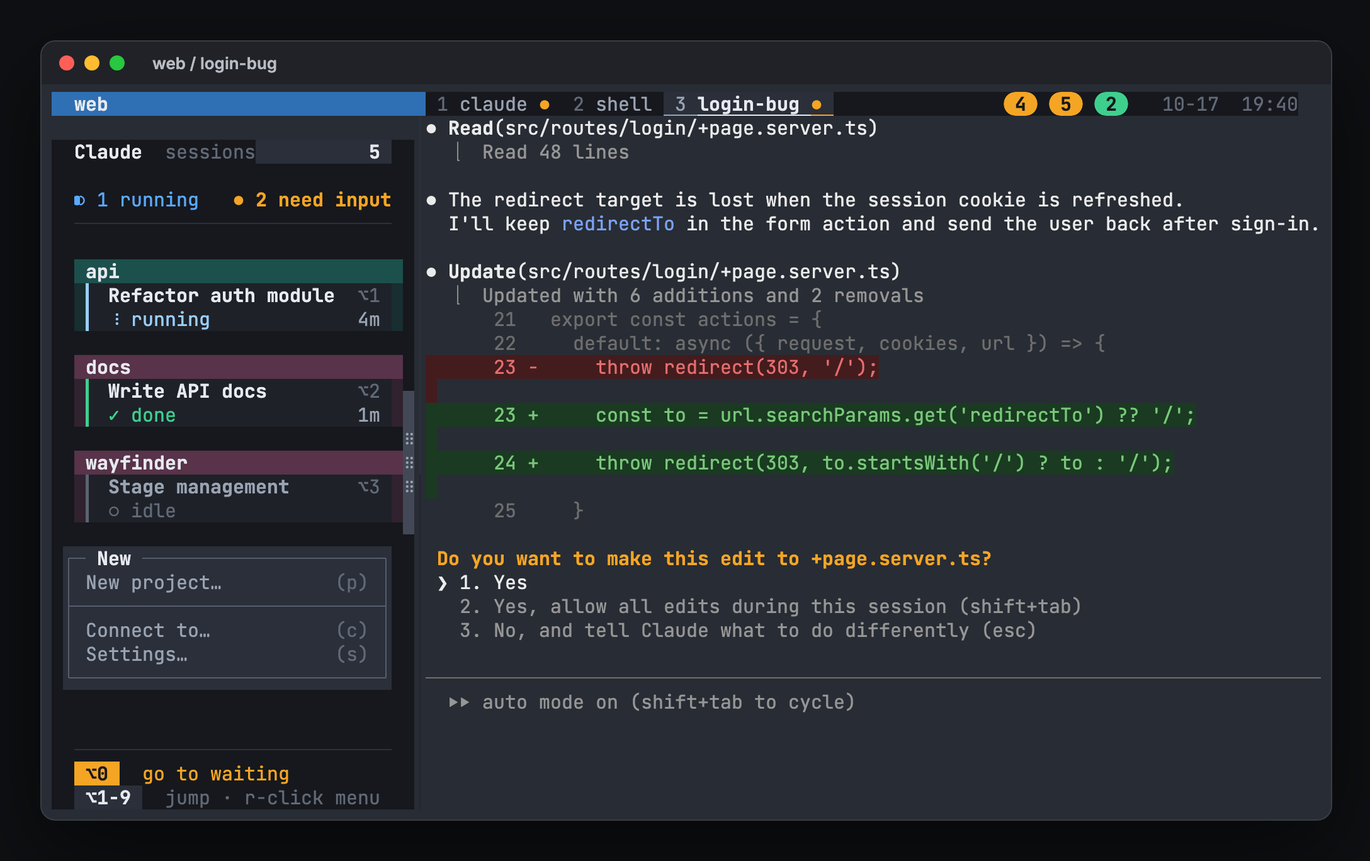
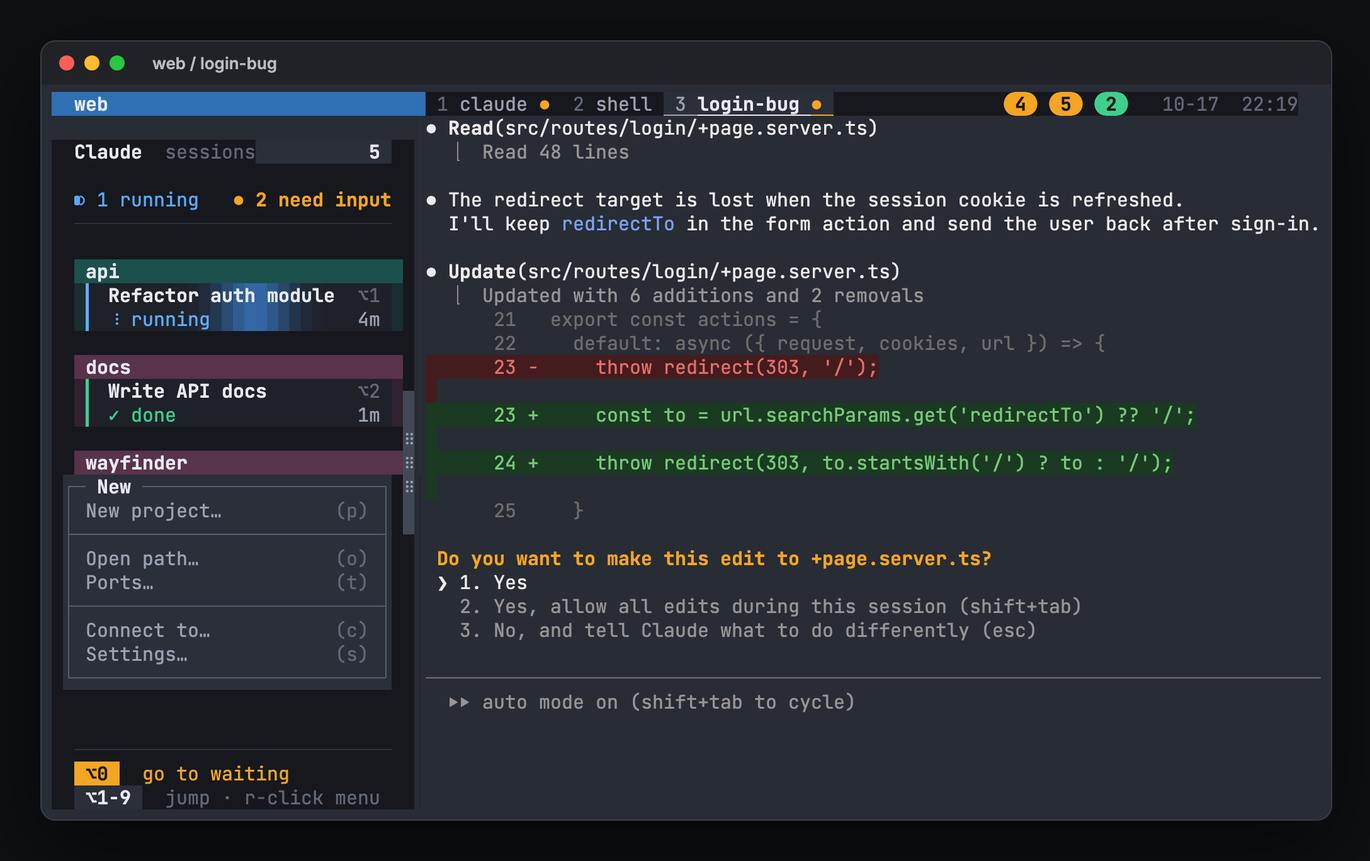
Ports: list popup (Option+W, menu) and opening from either Mac
The connecting Mac's hivemux-ports puts its forwards in the other Mac's
tmux (@hivemux-ports-<Mac>), so the port list popup there shows them;
Enter sets @hivemux-ports-open-<Mac> and the next poll opens the page in
the connecting Mac's browser. The right-click menu gets Open path… and
Ports…; Option+W opens the popup (Option+P is Claude Code's model picker).

Claude-Session: https://claude.ai/code/session_01DeGU8b5o6dBWL7LV6J71n7

Changed region(s): [[0.0312, 0.5526, 0.3125, 0.7061], [0.0938, 0.307, 0.2188, 0.3991]]

diff --git a/docs/guide.html b/docs/guide.html
@@ -515,7 +515,7 @@ claude -c
       <div class="key"><span class="combo">사이드바 카드 클릭</span><span class="d">그 Claude로 이동</span></div>
       <div class="key"><span class="combo">프로젝트 이름 클릭</span><span class="d">그 프로젝트로 이동. Claude 창을 모두 닫은 프로젝트도 "Claude 없음"으로 남고, 오른쪽 클릭 → 프로젝트 닫기로 정리합니다</span></div>
       <div class="key"><span class="combo">카드 더블클릭</span><span class="d">작업 이름 바꾸기</span></div>
-      <div class="key"><span class="combo">오른쪽 클릭</span><span class="d">메뉴. 작업 카드: 이동, 이름 바꾸기, 위로 / 아래로 옮기기, 이 프로젝트에 새 Claude, 새 프로젝트. 프로젝트 이름 줄: 이름 바꾸기, 프로젝트 닫기, 새 Claude, 새 프로젝트. 빈 곳: 새 프로젝트. 모든 메뉴 맨 아래에 원격 연결과 설정. 마우스를 올리면 강조되고 클릭하면 실행. <kbd>↑</kbd> <kbd>↓</kbd>와 <kbd>Enter</kbd>, 괄호 안 글자로도 고름. <kbd>Esc</kbd>나 바깥 클릭으로 닫힘</span></div>
+      <div class="key"><span class="combo">오른쪽 클릭</span><span class="d">메뉴. 작업 카드: 이동, 이름 바꾸기, 위로 / 아래로 옮기기, 이 프로젝트에 새 Claude, 새 프로젝트. 프로젝트 이름 줄: 이름 바꾸기, 프로젝트 닫기, 새 Claude, 새 프로젝트. 빈 곳: 새 프로젝트. 모든 메뉴 맨 아래에 경로 열기, 포트 목록, 원격 연결, 설정. 마우스를 올리면 강조되고 클릭하면 실행. <kbd>↑</kbd> <kbd>↓</kbd>와 <kbd>Enter</kbd>, 괄호 안 글자로도 고름. <kbd>Esc</kbd>나 바깥 클릭으로 닫힘</span></div>
       <div class="key"><span class="combo">메뉴 → 새 프로젝트</span><span class="d">가운데 폴더 탐색 창이 열림. <kbd>Enter</kbd>는 고른 폴더에서 <code>hm</code>처럼 시작, <kbd>→</kbd> / <kbd>←</kbd>는 폴더 안 / 상위로, 글자를 치면 걸러 보기 (<code>.</code>으로 시작하면 숨김 폴더도), <kbd>Ctrl</kbd>+<kbd>N</kbd>은 새 폴더</span></div>
       <div class="key"><span class="combo">메뉴 → 설정</span><span class="d">언어 (한국어 / English), 애니메이션 켜기 / 끄기, 알림 켜기 / 끄기, 사이드바 폭. 바꾸면 바로 적용되고 <code>~/.local/share/hivemux</code>에 저장되어 재시작 뒤에도 유지됨. 언어를 바꾸면 사이드바를 다시 띄움</span></div>
       <div class="key"><span class="combo">카드 / 프로젝트 이름 줄 끌기</span><span class="d">작업 순서 / 프로젝트 순서 바꾸기. 놓을 자리가 파랗게 표시되고, <kbd>⌥</kbd>+숫자 번호와 맨 위 창 목록도 같은 순서를 따름. 작업은 같은 프로젝트 안에서만 옮겨짐</span></div>
@@ -530,11 +530,12 @@ claude -c
       <figure><a href="img/menu-empty-ko.png"><img src="img/menu-empty-ko.png" alt="빈 곳 메뉴" width="1088" height="682" loading="lazy"></a><figcaption>빈 곳 오른쪽 클릭: 새 프로젝트와 설정</figcaption></figure>
       <figure><a href="img/reorder-ko.png"><img src="img/reorder-ko.png" alt="카드 끌어서 순서 바꾸기" width="1088" height="682" loading="lazy"></a><figcaption>카드 끌기: 놓을 자리가 파랗게, 끄는 카드는 흐리게</figcaption></figure>
       <figure><a href="img/new-project-ko.png"><img src="img/new-project-ko.png" alt="새 프로젝트 폴더 탐색 창" width="1088" height="682" loading="lazy"></a><figcaption>메뉴 → 새 프로젝트: 폴더 탐색 창. 이미 열린 프로젝트에 "열린 세션" 표시</figcaption></figure>
+      <figure><a href="img/ports-ko.png"><img src="img/ports-ko.png" alt="포트 목록 팝업" width="1088" height="682" loading="lazy"></a><figcaption>메뉴 → 포트 목록 (<kbd>Option</kbd>+<kbd>W</kbd>): 원격으로 붙은 Mac 으로 이어진 개발 서버</figcaption></figure>
       <figure><a href="img/settings-ko.png"><img src="img/settings-ko.png" alt="설정 창" width="1088" height="682" loading="lazy"></a><figcaption>메뉴 → 설정: 언어, 애니메이션, 알림, 사이드바 폭</figcaption></figure>
     </div>
     <h3>파일 경로 열기</h3>
     <div class="keys">
-      <div class="key"><span class="combo"><kbd>Option</kbd>+<kbd>O</kbd></span><span class="d">지금 칸의 최근 출력에서 파일 경로를 골라 열기 팝업</span></div>
+      <div class="key"><span class="combo"><kbd>Option</kbd>+<kbd>O</kbd></span><span class="d">지금 칸의 최근 출력에서 파일 경로를 골라 열기 팝업. 오른쪽 클릭 메뉴 → 경로 열기와 같음</span></div>
       <div class="key"><span class="combo">팝업에서 글자 입력</span><span class="d">경로 걸러 보기</span></div>
       <div class="key"><span class="combo"><kbd>Enter</kbd></span><span class="d">VS Code에서 열기. 줄 번호가 있으면 그 줄로</span></div>
       <div class="key"><span class="combo"><kbd>Tab</kbd> / <kbd>Ctrl</kbd>+<kbd>F</kbd> / <kbd>Ctrl</kbd>+<kbd>Y</kbd></span><span class="d">기본 앱으로 열기 / Finder에서 보기 / 경로 복사</span></div>
@@ -649,7 +650,8 @@ hivemux connect me@work-mac.local</pre></div>
   <ul>
     <li>새 포트가 이어지면 알림이 뜹니다. 이 Mac에서 이미 쓰는 포트면 다음 빈 포트로 잇고 알림에 적습니다.</li>
     <li>서버가 꺼지면 연결도 풀리고, 원격 창을 닫으면 모두 풀립니다. mosh로 붙어도 됩니다 (포트는 ssh로 따로 잇습니다).</li>
-    <li>지금 이어진 포트 보기: <code>hivemux connect --ports</code>. 끄려면 <code>HIVEMUX_PORTS=0 hivemux connect &lt;host&gt;</code>.</li>
+    <li><b>포트 목록</b>: <kbd>Option</kbd>+<kbd>W</kbd>나 오른쪽 클릭 메뉴 → <b>포트 목록</b>. 원격 화면에서도, 그 Mac 앞에서도 이어진 포트가 보입니다. <kbd>Enter</kbd>를 누르면 접속한 Mac의 브라우저로 열리고(몇 초 걸림), <kbd>Ctrl</kbd>+<kbd>Y</kbd>는 주소를 지금 화면이 있는 Mac의 클립보드로 복사합니다.</li>
+    <li>터미널에서 보기: <code>hivemux connect --ports</code>. 끄려면 <code>HIVEMUX_PORTS=0 hivemux connect &lt;host&gt;</code>.</li>
   </ul>
   <div class="note">두 화면에서 같은 프로젝트를 보면 화면을 같이 씁니다. 한쪽에서 창을 바꾸면 다른 쪽도 바뀝니다. 크기는 마지막으로 키보드 초점을 받은 화면에 맞춥니다. 원격 화면이 보고 있는 창에서는 사이드바 애니메이션과 상태줄 스피너가 멈춥니다 (장면마다 네트워크로 가서 입력이 느려지므로).</div>
 </section>
@@ -713,7 +715,7 @@ hivemux-sidebar respawn</pre></div>
       <p class="why">사이드바 칸으로 입력 초점이 옮겨졌다면 <kbd>q</kbd>나 <kbd>Esc</kbd>를 누르면 원래 칸으로 돌아갑니다. 사이드바에서 숫자 키를 눌러도 그 작업으로 이동합니다.</p>
     </div></details>
     <details class="issue" data-c="term"><summary>팝업이 뜨면 맨 위 창 목록에 <code>·</code> 창이 생긴다<span class="pill part tag">터미널</span></summary><div class="body">
-      <p>이름 바꾸기, 새 프로젝트, 설정, <kbd>Option</kbd>+<kbd>O</kbd> 팝업은 지금 화면을 멈춘 사본 위에 뜹니다. <code>·</code> 창이 그 사본이고, 팝업을 닫으면 원래 창으로 돌아가며 사라집니다.</p>
+      <p>이름 바꾸기, 새 프로젝트, 설정, <kbd>Option</kbd>+<kbd>O</kbd>, <kbd>Option</kbd>+<kbd>W</kbd> 팝업은 지금 화면을 멈춘 사본 위에 뜹니다. <code>·</code> 창이 그 사본이고, 팝업을 닫으면 원래 창으로 돌아가며 사라집니다.</p>
       <p class="why">tmux 3.7은 Claude가 출력하는 한글 같은 두 칸 폭 글자를 그 위의 팝업과 메뉴를 뚫고 그려서, 출력 중인 화면 위에 바로 띄우면 팝업이 깨집니다. 오른쪽 클릭 메뉴는 같은 이유로 사이드바가 직접 그립니다.</p>
     </div></details>
     <details class="issue" data-c="term"><summary>깜빡이는 효과를 끄고 싶다<span class="pill part tag">터미널</span></summary><div class="body">
@@ -808,7 +810,7 @@ hivemux uninstall</pre></div>
     <div><code>hivemux-attach</code><span>Ghostty 진입점. 서버가 없으면 복원 후 마지막 세션에, 있으면 최근 세션에 붙습니다</span></div>
     <div><code>hivemux-rename-project</code>, <code>hivemux-rename-project-ui</code><span>프로젝트 이름 바꾸기와 그 팝업</span></div>
     <div><code>hivemux-connect</code>, <code>hivemux-connect-ui</code><span>원격 연결 (<code>hivemux connect</code>)과 그 팝업</span></div>
-    <div><code>hivemux-ports</code><span>원격 연결 중 상대 Mac의 개발 서버 포트를 이 Mac으로 잇기</span></div>
+    <div><code>hivemux-ports</code>, <code>hivemux-ports-ui</code><span>원격 연결 중 상대 Mac의 개발 서버 포트를 이 Mac으로 잇기와 포트 목록 팝업</span></div>
     <div><code>hivemux-close-project</code>, <code>hivemux-close-project-ui</code><span>프로젝트 닫기 (화면 가운데 팝업으로 묻고 그 세션의 창을 모두 닫음)</span></div>
     <div><code>hivemux-hook</code><span>Claude 훅. 세션 ID, 폴더, 상태를 tmux 칸에 기록합니다</span></div>
     <div><code>hivemux-panes</code><span>저장 때 칸과 세션 ID 목록을 남기고, 복원 때 재개 명령을 입력합니다</span></div>

diff --git a/docs/guide.en.html b/docs/guide.en.html
@@ -505,7 +505,7 @@ claude -c
       <div class="key"><span class="combo">Click a card</span><span class="d">Jump to that Claude</span></div>
       <div class="key"><span class="combo">Click a project name</span><span class="d">Go to that project. A project whose Claude windows are all closed stays as "no Claude"; right-click → Close project to clear it</span></div>
       <div class="key"><span class="combo">Double-click a card</span><span class="d">Rename the task</span></div>
-      <div class="key"><span class="combo">Right click</span><span class="d">Menu. On a task: go to, rename, move up / down, new Claude in this project, new project. On a project name: rename, close project, new Claude, new project. On empty space: new project. Every menu ends with Connect to… and Settings. Hover highlights, a click runs; <kbd>↑</kbd> <kbd>↓</kbd> and <kbd>Enter</kbd> or the letter shown also choose. <kbd>Esc</kbd> or a click outside closes it</span></div>
+      <div class="key"><span class="combo">Right click</span><span class="d">Menu. On a task: go to, rename, move up / down, new Claude in this project, new project. On a project name: rename, close project, new Claude, new project. On empty space: new project. Every menu ends with Open path, Ports, Connect to… and Settings. Hover highlights, a click runs; <kbd>↑</kbd> <kbd>↓</kbd> and <kbd>Enter</kbd> or the letter shown also choose. <kbd>Esc</kbd> or a click outside closes it</span></div>
       <div class="key"><span class="combo">Menu → New project</span><span class="d">A folder browser opens in the middle. <kbd>Enter</kbd> starts in the selected folder like <code>hm</code>, <kbd>→</kbd> / <kbd>←</kbd> move in and out, typing filters (start with <code>.</code> for hidden folders), <kbd>Ctrl</kbd>+<kbd>N</kbd> makes a new folder</span></div>
       <div class="key"><span class="combo">Menu → Settings</span><span class="d">Language (한국어 / English), animation on / off, notifications on / off, sidebar width. Applied at once and saved in <code>~/.local/share/hivemux</code>, so they survive restarts. Changing the language restarts the sidebars</span></div>
       <div class="key"><span class="combo">Drag a card / project header</span><span class="d">Reorder tasks / projects. The drop target turns blue; <kbd>⌥</kbd>+number and the top window list follow the same order. A task moves only within its project</span></div>
@@ -520,11 +520,12 @@ claude -c
       <figure><a href="img/menu-empty-en.png"><img src="img/menu-empty-en.png" alt="Empty-space menu" width="1088" height="682" loading="lazy"></a><figcaption>Right click on empty space: new project and settings</figcaption></figure>
       <figure><a href="img/reorder-en.png"><img src="img/reorder-en.png" alt="Dragging a card to reorder" width="1088" height="682" loading="lazy"></a><figcaption>Dragging a card: the drop target turns blue, the dragged card dims</figcaption></figure>
       <figure><a href="img/new-project-en.png"><img src="img/new-project-en.png" alt="New project folder browser" width="1088" height="682" loading="lazy"></a><figcaption>Menu → New project: the folder browser; projects already open are marked "open"</figcaption></figure>
+      <figure><a href="img/ports-en.png"><img src="img/ports-en.png" alt="Ports popup" width="1088" height="682" loading="lazy"></a><figcaption>Menu → Ports (<kbd>Option</kbd>+<kbd>W</kbd>): dev servers forwarded to a Mac connected here</figcaption></figure>
       <figure><a href="img/settings-en.png"><img src="img/settings-en.png" alt="Settings popup" width="1088" height="682" loading="lazy"></a><figcaption>Menu → Settings: language, animation, notifications, sidebar width</figcaption></figure>
     </div>
     <h3>Open file paths</h3>
     <div class="keys">
-      <div class="key"><span class="combo"><kbd>Option</kbd>+<kbd>O</kbd></span><span class="d">Popup listing file paths from this pane's recent output</span></div>
+      <div class="key"><span class="combo"><kbd>Option</kbd>+<kbd>O</kbd></span><span class="d">Popup listing file paths from this pane's recent output; same as right-click menu → Open path</span></div>
       <div class="key"><span class="combo">Type in the popup</span><span class="d">Filter the paths</span></div>
       <div class="key"><span class="combo"><kbd>Enter</kbd></span><span class="d">Open in VS Code, at the line when there is one</span></div>
       <div class="key"><span class="combo"><kbd>Tab</kbd> / <kbd>Ctrl</kbd>+<kbd>F</kbd> / <kbd>Ctrl</kbd>+<kbd>Y</kbd></span><span class="d">Default app / reveal in Finder / copy path</span></div>
@@ -640,7 +641,8 @@ hivemux connect me@work-mac.local</pre></div>
   <ul>
     <li>A notification shows each new port. A port already taken here goes to the next free one, named in the notification.</li>
     <li>A stopped server is let go, and closing the remote window lets all go. Works over mosh too (ports go over a separate ssh).</li>
-    <li>See the forwarded ports: <code>hivemux connect --ports</code>. Turn it off: <code>HIVEMUX_PORTS=0 hivemux connect &lt;host&gt;</code>.</li>
+    <li><b>Ports</b>: <kbd>Option</kbd>+<kbd>W</kbd> or right-click menu → <b>Ports</b>, on the remote screen or in front of that Mac. <kbd>Enter</kbd> opens one in the browser of the Mac you connect from (takes a few seconds); <kbd>Ctrl</kbd>+<kbd>Y</kbd> copies the address to the clipboard of the Mac this screen is on.</li>
+    <li>From a terminal: <code>hivemux connect --ports</code>. Turn it off: <code>HIVEMUX_PORTS=0 hivemux connect &lt;host&gt;</code>.</li>
   </ul>
   <div class="note">Two screens on the same project share it: switching windows on one moves the other. The size follows the screen that got the keyboard focus last. While a remote screen looks at a window, the sidebar animation and the status line spinner stop (each frame would go over the network and slow typing).</div>
 </section>
@@ -704,7 +706,7 @@ hivemux-sidebar respawn</pre></div>
       <p class="why">If keyboard focus ends up in the sidebar, <kbd>q</kbd> or <kbd>Esc</kbd> returns it to the work pane. Number keys in the sidebar jump to that task.</p>
     </div></details>
     <details class="issue" data-c="term"><summary>A <code>·</code> window appears in the top window list while a popup is open<span class="pill part tag">Terminal</span></summary><div class="body">
-      <p>The rename, new project, settings and <kbd>Option</kbd>+<kbd>O</kbd> popups open over a still copy of the screen. The <code>·</code> window is that copy; it goes away when the popup closes and you are back in your window.</p>
+      <p>The rename, new project, settings, <kbd>Option</kbd>+<kbd>O</kbd> and <kbd>Option</kbd>+<kbd>W</kbd> popups open over a still copy of the screen. The <code>·</code> window is that copy; it goes away when the popup closes and you are back in your window.</p>
       <p class="why">tmux 3.7 draws double-width text (Korean and other CJK) that Claude prints through popups and menus on top of it, so a popup over a printing Claude gets garbled. The right-click menu is drawn by the sidebar itself for the same reason.</p>
     </div></details>
     <details class="issue" data-c="term"><summary>Turn off the animations<span class="pill part tag">Terminal</span></summary><div class="body">
@@ -799,7 +801,7 @@ hivemux uninstall</pre></div>
     <div><code>hivemux-attach</code><span>Ghostty entry point. Restores and attaches to the last session when no server runs, otherwise to the most recent one</span></div>
     <div><code>hivemux-rename-project</code>, <code>hivemux-rename-project-ui</code><span>Rename a project, and its popup</span></div>
     <div><code>hivemux-connect</code>, <code>hivemux-connect-ui</code><span>Connect to another Mac (<code>hivemux connect</code>) and its popup</span></div>
-    <div><code>hivemux-ports</code><span>Forward the other Mac's dev server ports here while connected</span></div>
+    <div><code>hivemux-ports</code>, <code>hivemux-ports-ui</code><span>Forward the other Mac's dev server ports here while connected, and the port list popup</span></div>
     <div><code>hivemux-close-project</code>, <code>hivemux-close-project-ui</code><span>Close a project (asks in a popup in the middle, then closes all its windows)</span></div>
     <div><code>hivemux-hook</code><span>Claude hook. Records session id, folder and state on the tmux pane</span></div>
     <div><code>hivemux-panes</code><span>Saves the pane-to-session list on save; types the resume command on restore</span></div>

diff --git a/README.ko.md b/README.ko.md
@@ -81,12 +81,13 @@ curl -fsSL https://raw.githubusercontent.com/esteban-eg-kim/hivemux/main/install
 | `Option+1` … `9` | 그 번호 Claude로 이동 (세션이 달라도) |
 | `Option+0` / `prefix Space` | 가장 오래 기다린 Claude, 없으면 안 본 완료 작업 |
 | 카드 / 프로젝트 이름 클릭 | 이동. 카드 더블클릭은 이름 바꾸기. Claude 창을 모두 닫은 프로젝트도 닫을 때까지 목록에 남음 ("Claude 없음") |
-| 오른쪽 클릭 | 메뉴. 작업 카드: 이동, 이름 바꾸기, 위/아래로 옮기기, 새 Claude, 새 프로젝트. 프로젝트 이름 줄: 이름 바꾸기, 프로젝트 닫기, 새 Claude, 새 프로젝트. 빈 곳: 새 프로젝트. 모든 메뉴 맨 아래에 원격 연결과 설정. 마우스나 `↑↓` `Enter`, 괄호 안 글자로 고르고 `Esc`로 닫기 |
+| 오른쪽 클릭 | 메뉴. 작업 카드: 이동, 이름 바꾸기, 위/아래로 옮기기, 새 Claude, 새 프로젝트. 프로젝트 이름 줄: 이름 바꾸기, 프로젝트 닫기, 새 Claude, 새 프로젝트. 빈 곳: 새 프로젝트. 모든 메뉴 맨 아래에 경로 열기, 포트 목록, 원격 연결, 설정. 마우스나 `↑↓` `Enter`, 괄호 안 글자로 고르고 `Esc`로 닫기 |
 | 메뉴 → 새 프로젝트 | 가운데 폴더 탐색 창: `Enter`는 고른 폴더에서 시작 (`hm`과 같음), `→` / `←`는 폴더 안 / 상위로, 글자를 치면 걸러 보기, `Ctrl+N`은 새 폴더 |
 | 메뉴 → 설정 | 언어 (한국어 / English), 애니메이션, 알림, 사이드바 폭. 바로 적용되고 저장됨 |
 | 카드 / 프로젝트 이름 줄 끌기 | 작업 순서 / 프로젝트 순서 바꾸기 |
 | `prefix Shift+↑` / `↓` | 지금 작업을 위 / 아래로 (프로젝트 끝이면 프로젝트가 움직임) |
-| `Option+O` | 최근 출력의 파일 경로 열기 (Enter VS Code, Tab 기본 앱, ^F Finder, ^Y 복사) |
+| `Option+O` / 메뉴 → 경로 열기 | 최근 출력의 파일 경로 열기 (Enter VS Code, Tab 기본 앱, ^F Finder, ^Y 복사) |
+| `Option+W` / 메뉴 → 포트 목록 | 두 Mac 사이에 이어진 개발 서버 포트 (Enter 이어진 Mac 의 브라우저로 열기, ^Y 주소 복사) |
 | `prefix Shift+C` | 이 폴더에서 이름 붙인 Claude 새 창 |
 | 메뉴 → 원격 연결 | 다른 Mac의 hivemux를 새 Ghostty 창으로 (`hivemux connect --add`로 등록한 호스트) |
 | `prefix Shift+H` | 마지막 원격 호스트에 다시 연결 |
@@ -125,7 +126,7 @@ hivemux connect me@work-mac.local          # 또는 오른쪽 클릭 → 원격 
 - 원격 창은 상태줄 오른쪽 시계 앞에 `⇄ Mac 이름`이 표시됩니다.
 - 연결이 끊기면 저절로 다시 연결합니다(`Ctrl+C`로 그만). `prefix d`로 떼면 창이 닫힙니다.
 - 원격 작업의 알림도 이 Mac에 뜹니다.
-- 연결해 있는 동안 상대 Mac에서 띄운 개발 서버(원격 칸의 `npm run dev` 등)는 이 Mac의 `localhost` 같은 포트로 이어지고, 새 포트마다 알림이 뜹니다. 이 Mac에서 이미 쓰는 포트면 다음 빈 포트로 잇습니다. `hivemux connect --ports`로 목록을 보고, `HIVEMUX_PORTS=0`이면 끕니다.
+- 연결해 있는 동안 상대 Mac에서 띄운 개발 서버(원격 칸의 `npm run dev` 등)는 이 Mac의 `localhost` 같은 포트로 이어지고, 새 포트마다 알림이 뜹니다. 이 Mac에서 이미 쓰는 포트면 다음 빈 포트로 잇습니다. `Option+W`(또는 메뉴 → 포트 목록)로 어느 Mac 에서든 목록을 보고, Enter를 누르면 접속한 Mac의 브라우저로 열립니다. `HIVEMUX_PORTS=0`이면 끕니다.
 - `--mosh`로 등록하거나 메뉴 → 원격 연결… 목록에서 `m`을 누르면 잠자기와 네트워크 변경을 스스로 견딥니다. 대신 알림이 mosh를 지나가지 못하며, 목록에는 "mosh · 알림 없음"으로 표시됩니다. 두 Mac 모두 `brew install mosh`가 필요합니다. "Nothing received from server on UDP port"에서 멈추면 상대 Mac의 방화벽에서 `mosh-server`의 수신 연결을 허용하세요.
 - 두 화면에서 같은 프로젝트를 보면 화면을 같이 씁니다. 한쪽에서 창을 바꾸면 다른 쪽도 바뀝니다.
 - 원격 화면이 보고 있는 창에서는 사이드바가 움직이지 않습니다 (카드 깜빡임, 상태줄 스피너 없음). 애니메이션 한 장면 한 장면이 모두 네트워크로 가기 때문입니다.

diff --git a/README.md b/README.md
@@ -110,12 +110,13 @@ new hooks once restarted. `hivemux version` shows the installed version; see
 | `Option+1` … `9` | jump to that Claude (any session) |
 | `Option+0` / `prefix Space` | oldest waiting Claude, else oldest unseen finished one |
 | click card / project name | jump · double click a card: rename. A project whose Claude windows are all closed stays listed ("no Claude") until you close it |
-| right click | menu. On a task: go to, rename, move up/down, new Claude, new project. On a project name: rename, close project, new Claude, new project. On empty space: new project. Every menu ends with Connect to… and Settings. Choose with the mouse, `↑↓` `Enter` or the letter shown; `Esc` closes |
+| right click | menu. On a task: go to, rename, move up/down, new Claude, new project. On a project name: rename, close project, new Claude, new project. On empty space: new project. Every menu ends with Open path…, Ports…, Connect to… and Settings. Choose with the mouse, `↑↓` `Enter` or the letter shown; `Esc` closes |
 | menu → New project | folder browser in the middle: `Enter` starts the selected folder (like `hm`), `→` / `←` in and out, type to filter, `Ctrl+N` new folder |
 | menu → Settings | language (한국어 / English), animation, notifications, sidebar width; applied at once and saved |
 | drag card / project header | reorder tasks / projects |
 | `prefix Shift+↑` / `↓` | move the current task up / down (at a project's edge, the project moves) |
-| `Option+O` | open a file path from recent output (Enter VS Code, Tab default app, ^F Finder, ^Y copy) |
+| `Option+O` / menu → Open path | open a file path from recent output (Enter VS Code, Tab default app, ^F Finder, ^Y copy) |
+| `Option+W` / menu → Ports | dev server ports forwarded between Macs (Enter opens in the browser of the Mac they reach, ^Y copies the address) |
 | `prefix Shift+C` | new window with a named Claude in this folder |
 | menu → Connect to… | another Mac's hivemux in a new Ghostty window (hosts added with `hivemux connect --add`) |
 | `prefix Shift+H` | connect to the last remote host again |
@@ -165,8 +166,9 @@ a VPN such as [Tailscale](https://tailscale.com) on both Macs is the simple way
 - Notifications from the remote tasks show on this Mac.
 - Dev servers started there (`npm run dev` in a remote pane) are forwarded to
   the same port on this Mac's `localhost` while connected, with a notification
-  for each; a port taken here goes to the next free one. `hivemux connect
-  --ports` lists them, `HIVEMUX_PORTS=0` turns it off.
+  for each; a port taken here goes to the next free one. `Option+W` (or
+  menu → Ports) lists them on either Mac; Enter opens one in the browser of the
+  Mac you connect from. `HIVEMUX_PORTS=0` turns it off.
 - With `--mosh` (or `m` in the menu → Connect to… list), the session survives
   sleep and network changes by itself, but notifications do not pass through
   mosh; the list marks such a host "mosh · no notifications". Both Macs need

diff --git a/CHANGELOG.md b/CHANGELOG.md
@@ -6,8 +6,12 @@
   dev` by Claude or a shell) are forwarded to the same port on this Mac's
   `localhost` over a separate ssh connection, with a notification for each.
   A port taken here goes to the next free one; a stopped server and closing
-  the window let them go. `hivemux connect --ports` lists them,
-  `HIVEMUX_PORTS=0` turns it off
+  the window let them go. `HIVEMUX_PORTS=0` turns it off
+- Port list popup: `Option+W` or right-click menu → Ports, on the remote
+  screen or on the Mac itself. Enter opens the server in the browser of the
+  Mac you connect from, `Ctrl+Y` copies the address. `hivemux connect
+  --ports` lists them in a terminal
+- The right-click menu has Open path… (`Option+O`) too
 
 ## 0.1.22 — 2026-10-17
 
